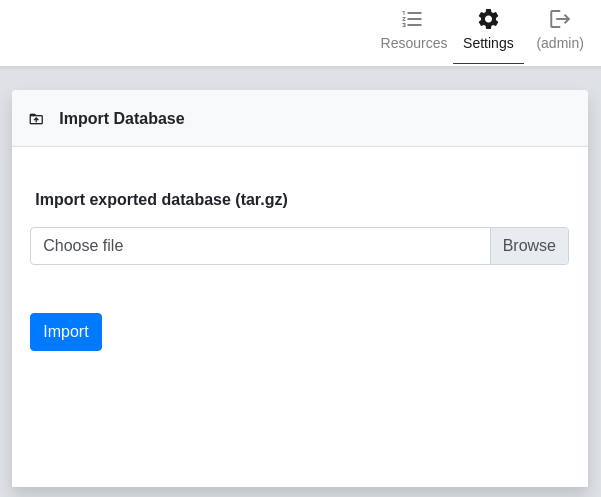
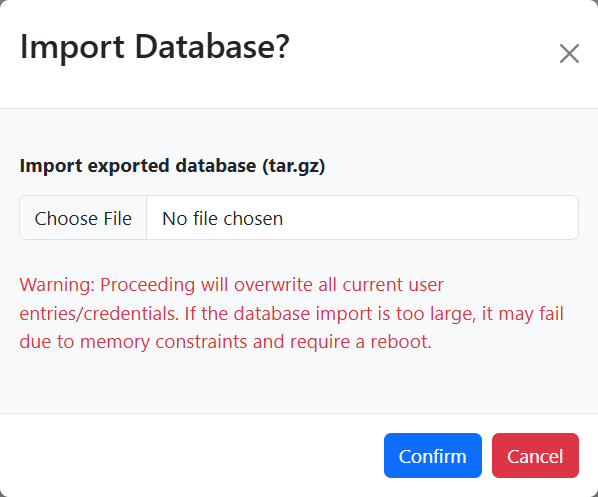
Updated docs

Changed region(s): [[0.0, 0.0, 1.0, 1.0], [0.9933, 0.0, 1.0, 0.0302]]

diff --git a/docs/settings/database.md b/docs/settings/database.md
@@ -1,7 +1,7 @@
 The Database menu on the Settings page can be used to backup and restore the reverge database. The primary use case for this functionality is transferring the data from one instance of reverge to another, typically when upgrading.
 
 ## Export Tables
-To export the reverge database tables, Click the **Export** button at the bottom left of the **Export Database** dialog. This action will queue an export job that will be added to the table. When the job is complete, the database export can be downloaded by clicking the <img src="../../assets/download_btn.png" alt="Download button" width="30"> button. The export file is a compressed tar archive containing reverge data in csv format and the exported table schemas.
+To export the reverge database tables, Click the <img src="../../assets/db_export.png" alt="Export button" width="30"> button at the top right of the **Database Operations** table. This action will queue an export job that will be added to the table. When the job is complete, the database export can be downloaded by clicking the <img src="../../assets/download_btn.png" alt="Download button" width="30"> button. The export file is a compressed tar archive containing reverge data in csv format and the exported table schemas.
 <br>
 <br>
 <center>
@@ -9,7 +9,9 @@ To export the reverge database tables, Click the **Export** button at the bottom
 </center>
 
 ## Import Tables
-The import process is the mirror operation to the database export feature and expects a compressed tar archive that was produced by performing an **Export**. <span style="color: red;">**It is highly recommmended to perform this operation immediately after installing a new reverge instance to avoid data inconsistency**.</span> To restore a reverge database, click the **Browse** button and select a previously exported tar.gz reverge database export file. Next, click the **Import** button.
+The import process is the mirror operation to the database export feature and expects a compressed tar archive that was produced by performing an **Export**. <span style="color: red;">**It is highly recommmended to perform this operation immediately after installing a new reverge instance to avoid data inconsistency**.</span> To being an import, click the <img src="../../assets/db_import.png" alt="Import button" width="30"> button. In the popup dialog, click the **Choose File** button and select a previously exported tar.gz reverge database export file. Next, click the **Confirm** button.
 <center>
-<img src="../../assets/import_db.png" alt="Import DB" width="550" style="box-shadow: 5px 5px 15px rgba(0, 0, 0, 0.3);">
+<br>
+<br>
+<img src="../../assets/import_db.png" alt="Import DB" width="450" style="box-shadow: 5px 5px 15px rgba(0, 0, 0, 0.3);">
 </center>

diff --git a/docs/settings/groups.md b/docs/settings/groups.md
@@ -1,0 +1,34 @@
+
+The Groups menu on the Settings page can be used for typical group management operations. Groups exist to provide a mechanism for multiple users to access shared resources such as scans, collectors, targets, etc. 
+<br>
+## Add Group
+To add a new group to reverge click on the <img src="../../assets/add_btn.png" alt="Save button" width="30">  button in the top right corner of the Groups table.
+<br>
+<br>
+<center>
+<img src="../../assets/group_table.png" alt="User Table" width="750" style="box-shadow: 5px 5px 15px rgba(0, 0, 0, 0.3);">
+</center>
+<br>
+<br>
+Next, fill out the **Add Group** dialog by entering the new group's name. Then, click **Save**.
+<br>
+<br>
+<center>
+<img src="../../assets/add_group_modal.png" alt="Add Group" width="400" style="box-shadow: 5px 5px 15px rgba(0, 0, 0, 0.3);">
+</center>
+## Remove Group
+To remove a group from reverge, select the checkbox to the left of the group in the Groups table and click on the <img src="../../assets/delete_btn.png" alt="Delete button" width="30">  button in the top right corner.
+<br>
+<br>
+<center>
+<img src="../../assets/group_delete.png" alt="Delete Group" width="750" style="box-shadow: 5px 5px 15px rgba(0, 0, 0, 0.3);">
+</center>
+## Update Group Settings
+To update an existing groups user membership, click on the group in the Groups table. A **Users** dialog will be displayed with two lists. The list of the left side contains all users that are not in the group. THe list of the right contains all users in the group. Use the <img src="../../assets/add_to_list_btn.png" alt="Save button" width="30"> and <img src="../../assets/remove_from_list_btn.png" alt="Save button" width="30"> buttons to move users between the two lists.
+<br>
+<br>
+<center>
+<img src="../../assets/group_membership.png" alt="Group settings" width="750" style="box-shadow: 5px 5px 15px rgba(0, 0, 0, 0.3);">
+</center>
+<br>
+<br>

diff --git a/docs/scans/scans.md b/docs/scans/scans.md
@@ -17,6 +17,15 @@ To access detailed information about each host's ports, click on the correspondi
 </center>
 <br>
 <br>
+## Jobs
+If you want details on what scan jobs have been executed in the particular scan, click on the **Jobs** menu at the top right of the scan page. This table will display each tool that was executed, any additional arguments, the target hosts/domains/ports, and the execution status. This table can be exported in JSON format by clicking the <img src="../../assets/download_btn.png" alt="Export button" width="30"> button. To view up-to-date scan logs related to the execution of scan jobs, visit the collector details panel for the associated [Collector](/collectors/collectors/#manage-collector)
+<br>
+<br>
+<center>
+<img src="../../assets/scan_jobs.png" alt="Host" width="750" style="box-shadow: 5px 5px 15px rgba(0, 0, 0, 0.3);">
+</center>
+<br>
+<br>
 ## Filter
 If you're viewing a very large scan and need to filter the results, click on the <img src="../../assets/chevron.png" alt="Add button" width="30"> button located in the top-left corner of the screen. This will display a filter menu that provides a mechanism for narrowing down the displayed results according to your specific criteria.
 <br>

diff --git a/docs/targets/targets.md b/docs/targets/targets.md
@@ -84,7 +84,7 @@ The **Schedule** drop-down list contains options for either a **One Time** scan 
 <br>
 The **Passive Collection** container includes tools that gather data about a target from third-party sources without any direct interaction with the target network. The **Active Collection** container lists tools that communicate directly with the target.
 <br><br>
-Each of the selected [Tools](collectors/collectors/) will run with the default arguments specified in the **Resources**->**Tools** menu. To modify these default arguments for the scan, click on the <img src="../../assets/drop_dwn.png" alt="Add button" width="20" style="box-shadow: 5px 5px 15px rgba(0, 0, 0, 0.3);">  button and enter the new arguments in the tool arguments input box. 
+Each of the selected [Tools](/resources/tools) will run with the default arguments specified in the **Resources**->**Tools** menu. To modify these default arguments for the scan, click on the <img src="../../assets/drop_dwn.png" alt="Add button" width="20" style="box-shadow: 5px 5px 15px rgba(0, 0, 0, 0.3);">  button and enter the new arguments in the tool arguments input box. 
 <br>
 <br>
 <br>

diff --git a/docs/collectors/collectors.md b/docs/collectors/collectors.md
@@ -55,6 +55,14 @@ The Collectors menu is where you configure settings and perform various operatio
   <span>Destroys the collector</span>
 </div>
 To update a collector's configuration, edit one of the fields in the **Configuration** dialog and click on the <img src="../../assets/save_btn.png" alt="Save button" width="30">  button in the top right corner of the Configuration dialog.
+<br>
+The Collector Logs dialog enables monitoring of collector deployment and teardown processes. It also displays collector logs generated during scan operations. For more detailed information, consider using the remote access feature for troubleshooting or performing manual scan activities.
+<br>
+<br>
+<center>
+<img src="../../assets/collector_logs.png" alt="Collector Logs" width="500" style="box-shadow: 5px 5px 15px rgba(0, 0, 0, 0.3);">
+</center>
+
 ## Remote Access
 If you click on the <img src="../../assets/term_btn.png" alt="Save button" width="30"> button, a new window will be opened that renders a virtual remote shell on the selected collector. This interface can be used to troubleshoot issues with the collector or manually execute commands.
 <br>
